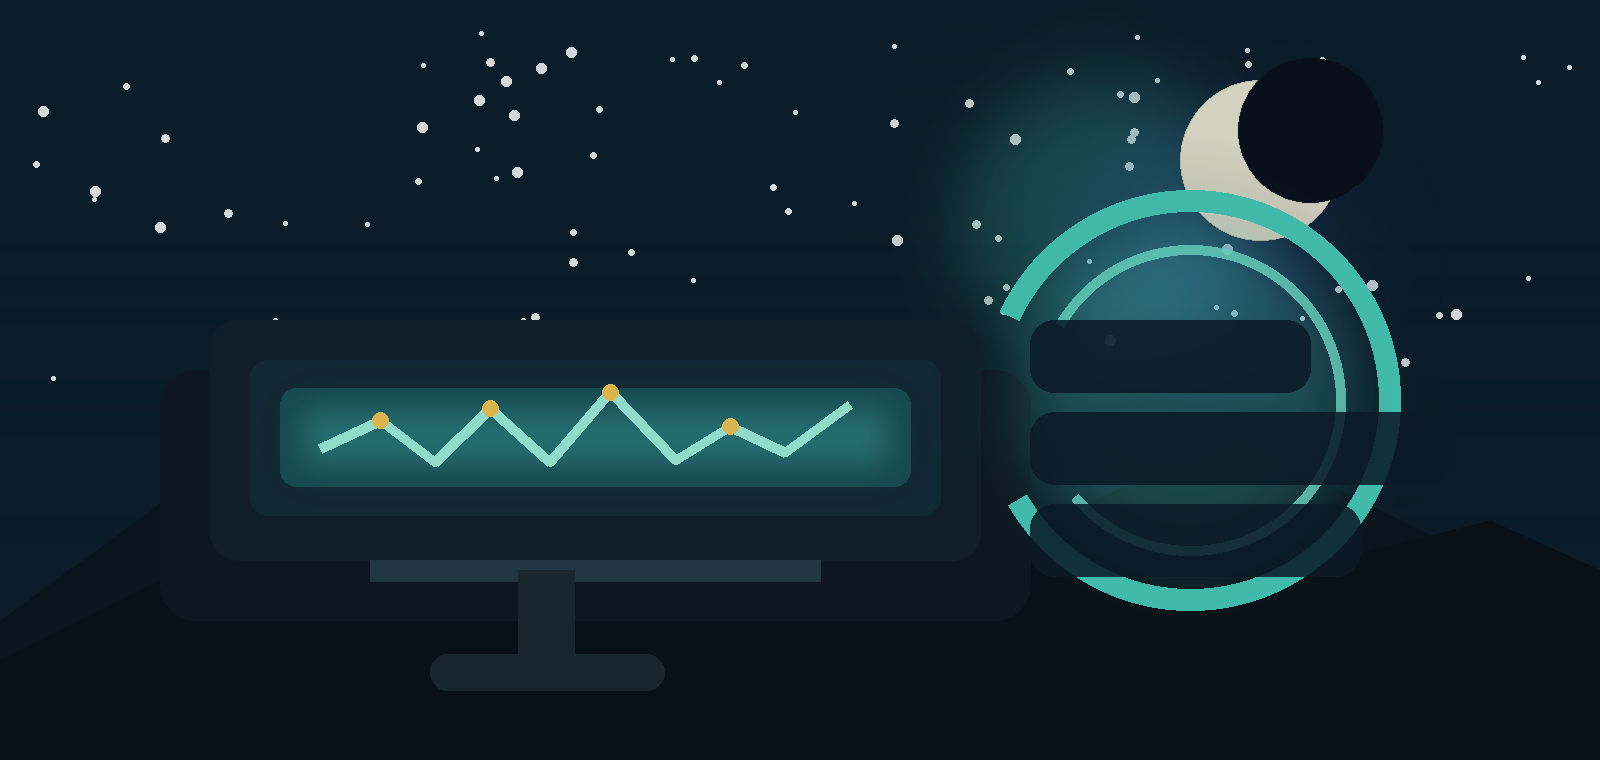
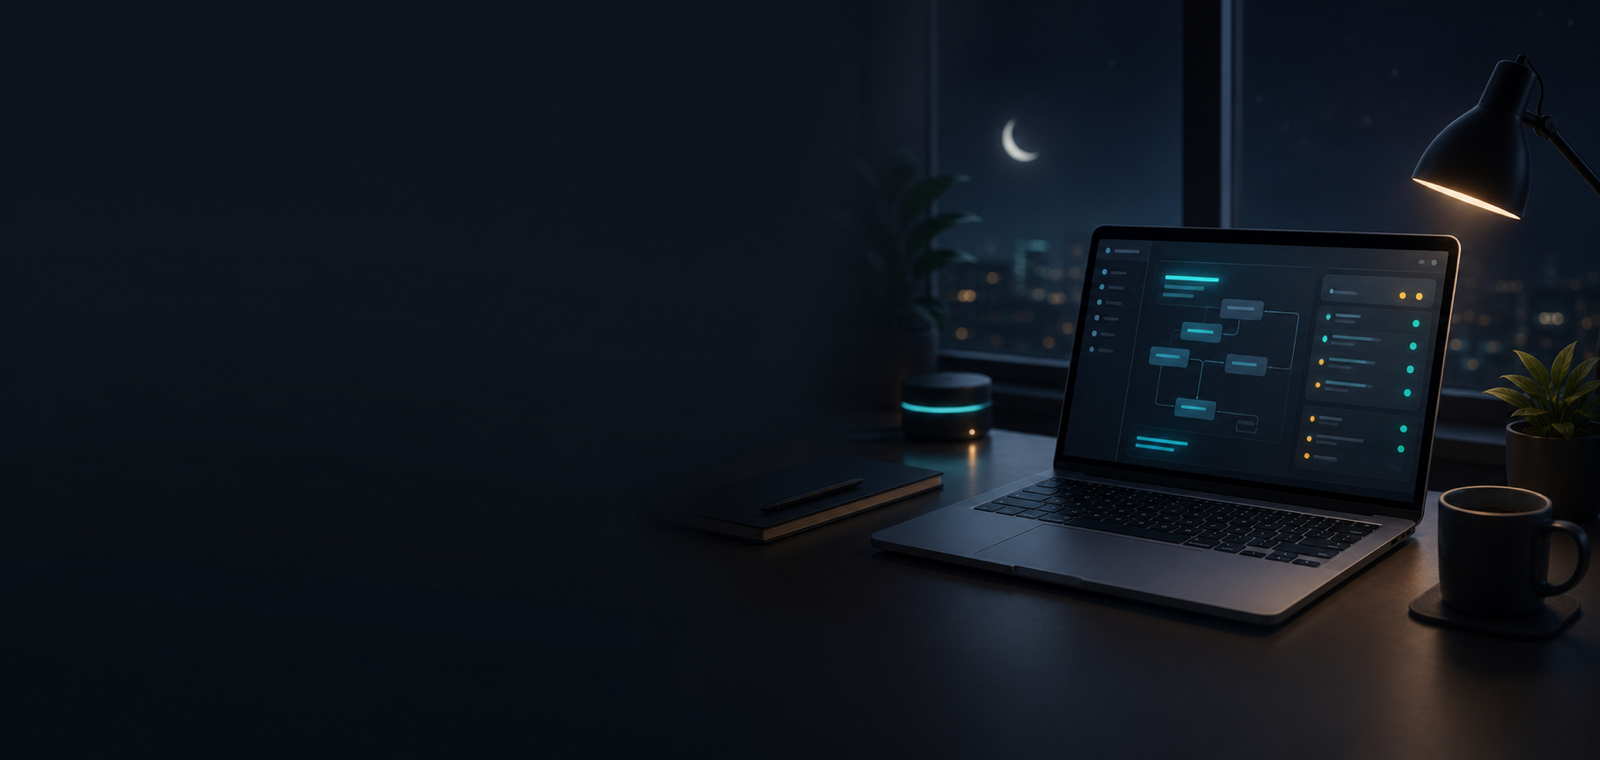
Release 0.1.4

Changed region(s): [[0.1562, 0.0, 1.0, 1.0], [0.9688, 0.3934, 1.0, 0.4237], [0.3125, 0.0908, 0.3438, 0.1211]]

diff --git a/Sources/AppModel.swift b/Sources/AppModel.swift
@@ -89,7 +89,12 @@ final class AgentDutyStore: ObservableObject {
     @Published private(set) var subtitleText = "默认：无限运行，直到你手动关闭"
     @Published private(set) var statusHintText = "开启后会持续保持系统唤醒"
     @Published private(set) var lastError: String?
-    @Published private(set) var lidCloseStatusText = "未请求"
+    @Published private(set) var lidCloseStatusText = "未开启"
+    @Published private(set) var systemPowerStatusText = "正在读取系统状态"
+    @Published private(set) var systemPowerStatusDetailText = "正在检查合盖睡眠设置"
+    @Published private(set) var systemPowerStatusUpdatedText = ""
+    @Published private(set) var canRestoreSystemSleep = false
+    @Published private(set) var isRefreshingSystemPowerStatus = false
     @Published private(set) var launchAtLoginEnabled = false
     @Published private(set) var launchAtLoginStatusText = "未启用"
     @Published private(set) var batteryStatusText = "正在读取电量状态"
@@ -136,6 +141,9 @@ final class AgentDutyStore: ObservableObject {
         refreshLaunchAtLoginStatus()
         refreshBatterySnapshot()
         recoverLingeringLidCloseOverrideIfNeeded()
+        experimentalLidCloseMode = false
+        defaults.set(false, forKey: DefaultsKey.experimentalLidCloseMode)
+        refreshSystemPowerStatus()
         refreshPresentation()
         startBatteryTimer()
     }
@@ -215,14 +223,25 @@ final class AgentDutyStore: ObservableObject {
     }
 
     func setExperimentalLidCloseMode(_ enabled: Bool) {
-        guard !isActive else { return }
+        guard isActive else {
+            experimentalLidCloseMode = false
+            defaults.set(false, forKey: DefaultsKey.experimentalLidCloseMode)
+            refreshLidCloseStatusText()
+            return
+        }
+
         let wasEnabled = experimentalLidCloseMode
         experimentalLidCloseMode = enabled
         defaults.set(enabled, forKey: DefaultsKey.experimentalLidCloseMode)
 
-        if wasEnabled && !enabled {
+        if enabled && !wasEnabled {
+            lidCloseStatusText = "请求中..."
+            requestLidCloseMode(for: activeSessionID)
+        } else if wasEnabled && !enabled {
             lidCloseStatusText = "正在恢复..."
             restoreLidCloseMode()
+        } else {
+            refreshLidCloseStatusText()
         }
     }
 
@@ -267,6 +286,64 @@ final class AgentDutyStore: ObservableObject {
         launchAtLoginController?.openSystemSettings()
     }
 
+    func refreshSystemPowerStatus() {
+        guard !isRefreshingSystemPowerStatus else { return }
+
+        isRefreshingSystemPowerStatus = true
+        systemPowerStatusUpdatedText = "检查中..."
+
+        Task.detached { [lidCloseController] in
+            do {
+                let snapshot = try lidCloseController.readPowerSettingsSnapshot()
+                await MainActor.run {
+                    self.applySystemPowerSnapshot(snapshot)
+                    self.isRefreshingSystemPowerStatus = false
+                }
+            } catch {
+                await MainActor.run {
+                    self.systemPowerStatusText = "读取失败"
+                    self.systemPowerStatusDetailText = "暂时没读到系统设置，请稍后再试。"
+                    self.systemPowerStatusUpdatedText = ""
+                    self.canRestoreSystemSleep = false
+                    self.isRefreshingSystemPowerStatus = false
+                }
+            }
+        }
+    }
+
+    func restoreSystemSleepNow() {
+        guard !isRefreshingSystemPowerStatus else { return }
+
+        isRefreshingSystemPowerStatus = true
+        systemPowerStatusText = "正在恢复合盖睡眠"
+        systemPowerStatusDetailText = "macOS 会弹出管理员授权。"
+        systemPowerStatusUpdatedText = ""
+
+        Task.detached { [lidCloseController] in
+            do {
+                try lidCloseController.setSleepDisabled(false)
+                UserDefaults.standard.set(false, forKey: DefaultsKey.managedLidCloseSleepOverride)
+                let snapshot = try lidCloseController.readPowerSettingsSnapshot()
+
+                await MainActor.run {
+                    self.shouldRestoreLidCloseSleepSetting = false
+                    self.refreshLidCloseStatusText()
+                    self.applySystemPowerSnapshot(snapshot)
+                    self.isRefreshingSystemPowerStatus = false
+                    self.lastError = nil
+                }
+            } catch {
+                await MainActor.run {
+                    self.systemPowerStatusText = "恢复失败"
+                    self.systemPowerStatusDetailText = "没有完成恢复，请确认管理员授权后再试。"
+                    self.systemPowerStatusUpdatedText = ""
+                    self.isRefreshingSystemPowerStatus = false
+                    self.lastError = "未能恢复盒盖睡眠设置：\(error.localizedDescription)"
+                }
+            }
+        }
+    }
+
     func startSession() {
         guard !isActive else { return }
 
@@ -300,10 +377,8 @@ final class AgentDutyStore: ObservableObject {
 
             refreshPresentation()
 
-            lidCloseStatusText = experimentalLidCloseMode ? "请求中..." : "未请求"
-
-            guard experimentalLidCloseMode else { return }
-            requestLidCloseMode(for: activeSessionID)
+            refreshLidCloseStatusText()
+            refreshSystemPowerStatus()
         } catch {
             lastError = error.localizedDescription
         }
@@ -327,13 +402,14 @@ final class AgentDutyStore: ObservableObject {
         endDate = nil
         experimentalLidCloseMode = false
         defaults.set(false, forKey: DefaultsKey.experimentalLidCloseMode)
-        lidCloseStatusText = wasExperimentalLidCloseMode ? "正在恢复..." : "未请求"
+        lidCloseStatusText = wasExperimentalLidCloseMode ? "正在恢复..." : "未开启"
         lastError = reason
 
         guard shouldRestoreLidCloseModeAfterSession || wasExperimentalLidCloseMode else {
             shouldRestoreLidCloseSleepSetting = false
-            lidCloseStatusText = wasExperimentalLidCloseMode ? "未修改系统设置" : "未请求"
+            refreshLidCloseStatusText()
             refreshPresentation()
+            refreshSystemPowerStatus()
             return
         }
 
@@ -399,6 +475,7 @@ final class AgentDutyStore: ObservableObject {
             Task { @MainActor [weak self] in
                 self?.refreshBatterySnapshot()
                 self?.evaluateBatteryProtection()
+                self?.refreshSystemPowerStatus()
             }
         }
     }
@@ -512,7 +589,8 @@ final class AgentDutyStore: ObservableObject {
                         return shouldRestoreIfSessionEnded
                     }
                     self.shouldRestoreLidCloseSleepSetting = !wasAlreadyDisabled
-                    self.lidCloseStatusText = wasAlreadyDisabled ? "系统已关闭盒盖睡眠" : "已启用实验模式"
+                    self.refreshLidCloseStatusText(systemSleepAlreadyDisabled: wasAlreadyDisabled)
+                    self.refreshSystemPowerStatus()
                     return false
                 }
 
@@ -523,12 +601,15 @@ final class AgentDutyStore: ObservableObject {
 
                 await MainActor.run {
                     if !self.isActive {
-                        self.lidCloseStatusText = "已恢复默认行为"
+                        self.refreshLidCloseStatusText()
                     }
+                    self.refreshSystemPowerStatus()
                 }
             } catch {
                 await MainActor.run {
                     guard self.isActive, self.activeSessionID == sessionID else { return }
+                    self.experimentalLidCloseMode = false
+                    self.defaults.set(false, forKey: DefaultsKey.experimentalLidCloseMode)
                     self.lidCloseStatusText = "请求失败"
                     self.lastError = "盒盖模式未启用：\(error.localizedDescription)"
                 }
@@ -542,16 +623,13 @@ final class AgentDutyStore: ObservableObject {
                 try lidCloseController.setSleepDisabled(false)
                 UserDefaults.standard.set(false, forKey: DefaultsKey.managedLidCloseSleepOverride)
                 await MainActor.run {
-                    if !self.isActive {
-                        self.lidCloseStatusText = "已恢复默认行为"
-                    }
+                    self.refreshLidCloseStatusText()
+                    self.refreshSystemPowerStatus()
                 }
             } catch {
                 await MainActor.run {
-                    if !self.isActive {
-                        self.lidCloseStatusText = "恢复失败"
-                        self.lastError = "未能恢复盒盖睡眠设置：\(error.localizedDescription)"
-                    }
+                    self.lidCloseStatusText = "恢复失败"
+                    self.lastError = "未能恢复盒盖睡眠设置：\(error.localizedDescription)"
                 }
             }
         }
@@ -590,11 +668,53 @@ final class AgentDutyStore: ObservableObject {
             }
 
             defaults.set(false, forKey: DefaultsKey.managedLidCloseSleepOverride)
-            lidCloseStatusText = hadManagedOverride ? "已恢复上次遗留的系统设置" : "已清理盒盖睡眠设置"
+            refreshLidCloseStatusText()
         } catch {
             lidCloseStatusText = "发现上次遗留设置"
             lastError = "检测到上次会话未恢复盒盖睡眠设置：\(error.localizedDescription)"
         }
+    }
+
+    private func applySystemPowerSnapshot(_ snapshot: PowerSettingsSnapshot) {
+        switch snapshot.sleepDisabled {
+        case .some(true):
+            systemPowerStatusText = "合盖不睡眠已生效"
+            systemPowerStatusDetailText = "现在合盖可能不会睡眠。任务结束后会尝试恢复，也可以手动恢复。"
+            canRestoreSystemSleep = true
+        case .some(false):
+            systemPowerStatusText = "合盖会正常睡眠"
+            systemPowerStatusDetailText = "未检测到合盖不睡眠设置。"
+            canRestoreSystemSleep = false
+        case .none:
+            if snapshot.idleSleepMinutes == 0 {
+                systemPowerStatusText = "自动睡眠已关闭"
+                systemPowerStatusDetailText = "未读到合盖开关，但系统当前不会自动睡眠。"
+            } else {
+                systemPowerStatusText = "未读到合盖设置"
+                systemPowerStatusDetailText = "没有读到系统里的合盖睡眠开关。"
+            }
+            canRestoreSystemSleep = false
+        }
+
+        if snapshot.sleepDisabled != true, snapshot.idleSleepMinutes == 0 {
+            systemPowerStatusDetailText = "合盖睡眠未被禁用，但自动睡眠当前是关闭的。"
+        }
+
+        systemPowerStatusUpdatedText = "检查于 \(Self.statusTimeFormatter.string(from: snapshot.capturedAt))"
+    }
+
+    private func refreshLidCloseStatusText(systemSleepAlreadyDisabled: Bool = false) {
+        guard isActive else {
+            lidCloseStatusText = "未开启"
+            return
+        }
+
+        guard experimentalLidCloseMode else {
+            lidCloseStatusText = "未开启"
+            return
+        }
+
+        lidCloseStatusText = systemSleepAlreadyDisabled ? "已开启（原本已生效）" : "已开启"
     }
 
     private func refreshBatterySnapshot() {
@@ -707,6 +827,12 @@ final class AgentDutyStore: ObservableObject {
             matchingPolicy: .nextTime
         ) ?? Date().addingTimeInterval(12 * 3600)
     }
+
+    private static let statusTimeFormatter: DateFormatter = {
+        let formatter = DateFormatter()
+        formatter.dateFormat = "HH:mm:ss"
+        return formatter
+    }()
 }
 
 private enum DefaultsKey {

diff --git a/Sources/StayAwakeForAgentApp.swift b/Sources/StayAwakeForAgentApp.swift
@@ -365,16 +365,48 @@ private struct AgentControlView: View {
     private var lidCloseSection: some View {
         SectionCard {
             settingHeader(
-                title: "实验性盒盖模式",
-                detail: "需要管理员授权；依赖系统行为，不保证所有机型都稳定。",
+                title: "合盖不睡眠（实验）",
+                detail: "让 MacBook 合盖后也尽量继续运行；需要管理员授权。",
                 toggle: Binding(
                     get: { store.experimentalLidCloseMode },
                     set: { store.setExperimentalLidCloseMode($0) }
                 ),
-                disabled: store.isActive
+                disabled: !store.isActive
             )
 
-            metricRow(label: "盒盖状态", value: store.lidCloseStatusText)
+            metricRow(label: "本次会话", value: store.lidCloseStatusText)
+            metricRow(label: "系统设置", value: store.systemPowerStatusText)
+
+            Text(store.systemPowerStatusDetailText)
+                .font(.caption)
+                .foregroundStyle(.secondary)
+                .fixedSize(horizontal: false, vertical: true)
+
+            HStack(spacing: 10) {
+                Button {
+                    store.refreshSystemPowerStatus()
+                } label: {
+                    Label(store.isRefreshingSystemPowerStatus ? "检查中" : "重新检查", systemImage: "arrow.clockwise")
+                }
+                .buttonStyle(.bordered)
+                .disabled(store.isRefreshingSystemPowerStatus)
+
+                Button(role: .destructive) {
+                    store.restoreSystemSleepNow()
+                } label: {
+                    Label("恢复合盖睡眠", systemImage: "bed.double")
+                }
+                .buttonStyle(.bordered)
+                .disabled(store.isRefreshingSystemPowerStatus || !store.canRestoreSystemSleep)
+
+                Spacer()
+            }
+
+            if !store.systemPowerStatusUpdatedText.isEmpty {
+                Text(store.systemPowerStatusUpdatedText)
+                    .font(.caption2)
+                    .foregroundStyle(.secondary)
+            }
         }
     }
 

diff --git a/Sources/LidCloseController.swift b/Sources/LidCloseController.swift
@@ -15,15 +15,27 @@ struct CommandFailure: LocalizedError {
     }
 }
 
+struct PowerSettingsSnapshot {
+    let sleepDisabled: Bool?
+    let idleSleepMinutes: Int?
+    let capturedAt: Date
+}
+
 final class LidCloseController {
     func isSleepDisabled() throws -> Bool {
         let output = try run(executable: "/usr/bin/pmset", arguments: ["-g"])
-        return output
-            .split(separator: "\n")
-            .contains { line in
-                let normalized = line.replacingOccurrences(of: "\t", with: " ")
-                return normalized.contains("SleepDisabled") && normalized.contains("1")
-            }
+        return Self.parseIntSetting("SleepDisabled", in: output) == 1
+    }
+
+    func readPowerSettingsSnapshot() throws -> PowerSettingsSnapshot {
+        let settingsOutput = try run(executable: "/usr/bin/pmset", arguments: ["-g"])
+        let sleepDisabledValue = Self.parseIntSetting("SleepDisabled", in: settingsOutput)
+
+        return PowerSettingsSnapshot(
+            sleepDisabled: sleepDisabledValue.map { $0 == 1 },
+            idleSleepMinutes: Self.parseIntSetting("sleep", in: settingsOutput),
+            capturedAt: Date()
+        )
     }
 
     func setSleepDisabled(_ disabled: Bool) throws {
@@ -60,4 +72,19 @@ final class LidCloseController {
 
         return combinedOutput
     }
+
+    private static func parseIntSetting(_ key: String, in output: String) -> Int? {
+        for line in output.split(separator: "\n") {
+            let parts = String(line)
+                .trimmingCharacters(in: .whitespacesAndNewlines)
+                .components(separatedBy: .whitespaces)
+                .filter { !$0.isEmpty }
+
+            guard parts.count >= 2, parts[0] == key else { continue }
+            return Int(parts[1])
+        }
+
+        return nil
+    }
+
 }

diff --git a/GITHUB_RELEASE.md b/GITHUB_RELEASE.md
@@ -2,8 +2,10 @@
 
 ### What's Changed
 
-- Added a Chinese voiceover product promo video to the README.
-- Fixed startup recovery logic for experimental lid-close mode so the app only restores `pmset disablesleep` when it previously managed that setting.
+- Added a clearer lid-close status panel with plain-language system state, manual refresh, and one-click restore for stuck no-sleep settings.
+- Made experimental lid-close mode follow the active stay-awake session so it no longer appears enabled while the main session is off.
+- Reworked the hero banner image with a calmer, lower-distraction night-work visual that keeps text readable.
+- Fixed parsing of macOS `pmset` output so `SleepDisabled` is detected correctly when the system uses tab-separated output.
 
 ### Download
 